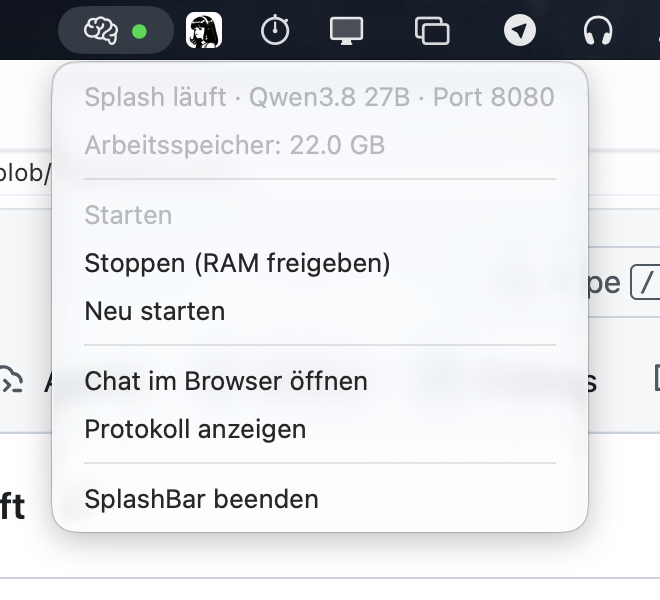
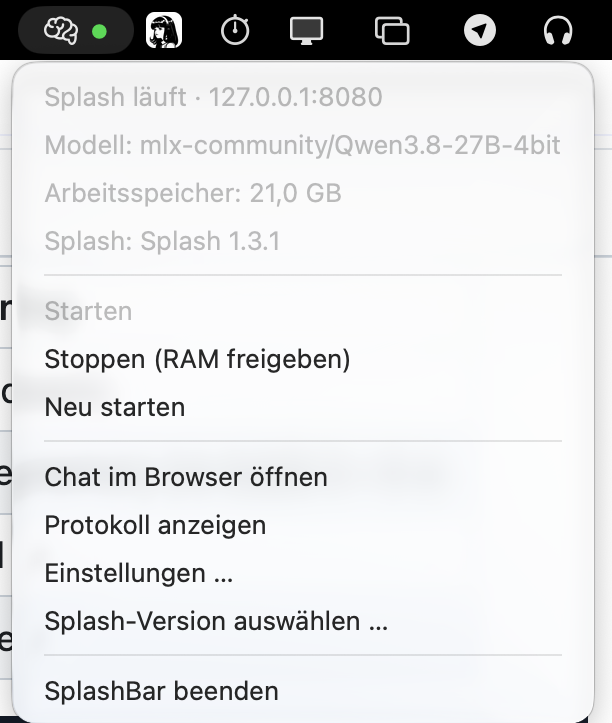
docs: refresh the menu screenshot and README
The menu image now shows the current menu including the model line,
memory readout and Splash version, taken from a live run. The README
describes the i18n coverage, the model readout and the release switcher
that landed in the recent releases.

Changed region(s): [[0.0, 0.0, 1.0, 1.0], [0.7141, 0.75, 0.7451, 0.78]]

diff --git a/README.md b/README.md
@@ -2,7 +2,8 @@
 
 A tiny macOS menu bar app to control a local [Splash](https://github.com/incoai/splash)
 inference server: start/stop/restart the `launchctl` service, watch the model's
-GPU memory footprint, and jump straight to the built-in chat page.
+GPU memory footprint, see the model that is actually loaded, switch between
+published Splash releases, and jump straight to the built-in chat page.
 
 The status dot in the menu bar does the talking:
 
@@ -12,6 +13,10 @@ The status dot in the menu bar does the talking:
 | 🔵 blue | idle | loaded but unloaded to save memory (re-loads in ~5 s) |
 | 🟠 orange | loading | server up, pulling the model in |
 | ⚪ gray | stopped | agent stopped, memory freed |
+
+The menu below is shown in German because that is SplashBar's development
+language; all menus follow the macOS system language and are localized in
+seven languages (de, en, fr, es, ja, zh, ru).
 
 ![The SplashBar menu](docs/menu.png)
 
@@ -25,6 +30,7 @@ The status dot in the menu bar does the talking:
 - Opens the chat UI at `http://127.0.0.1:8080` and the server log
 - Selects the model ID passed to `splash serve --model`
 - Shows the installed Splash version and can install or switch between published stable GitHub releases
+- Shows the model that is currently loaded (live, from the server's `/v1/models`)
 
 No dependencies, no installer, no daemon of its own — one Swift file, built
 with the Swift toolchain that ships with macOS.
